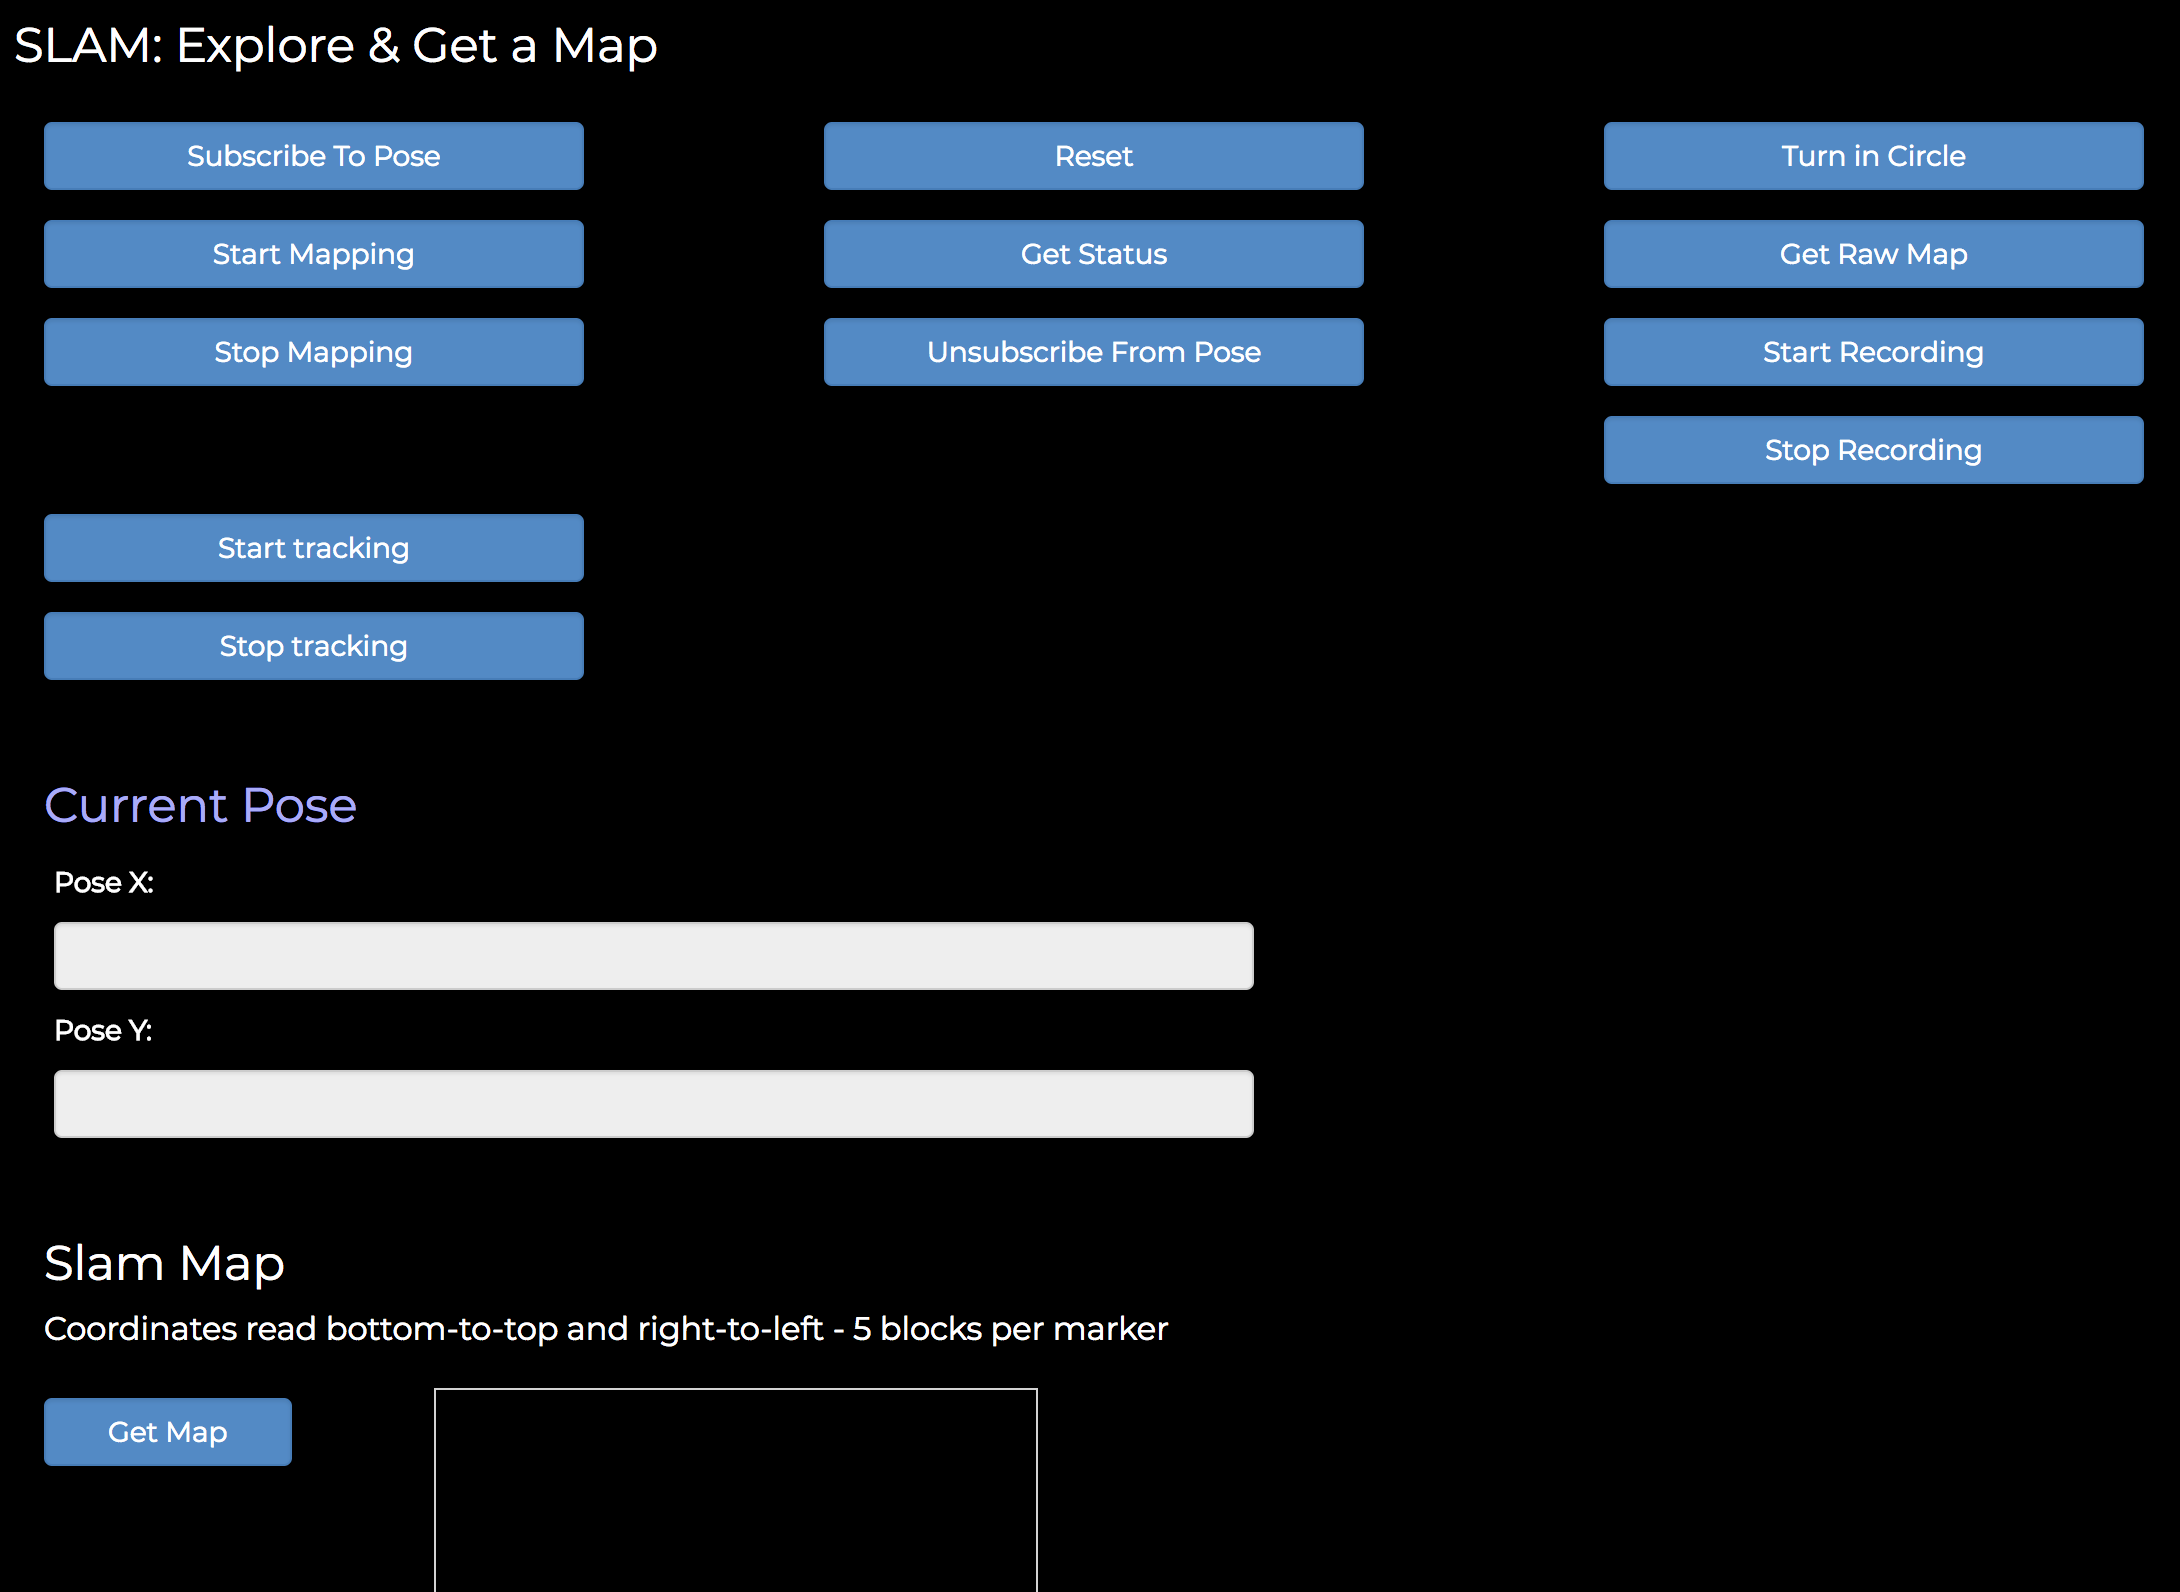
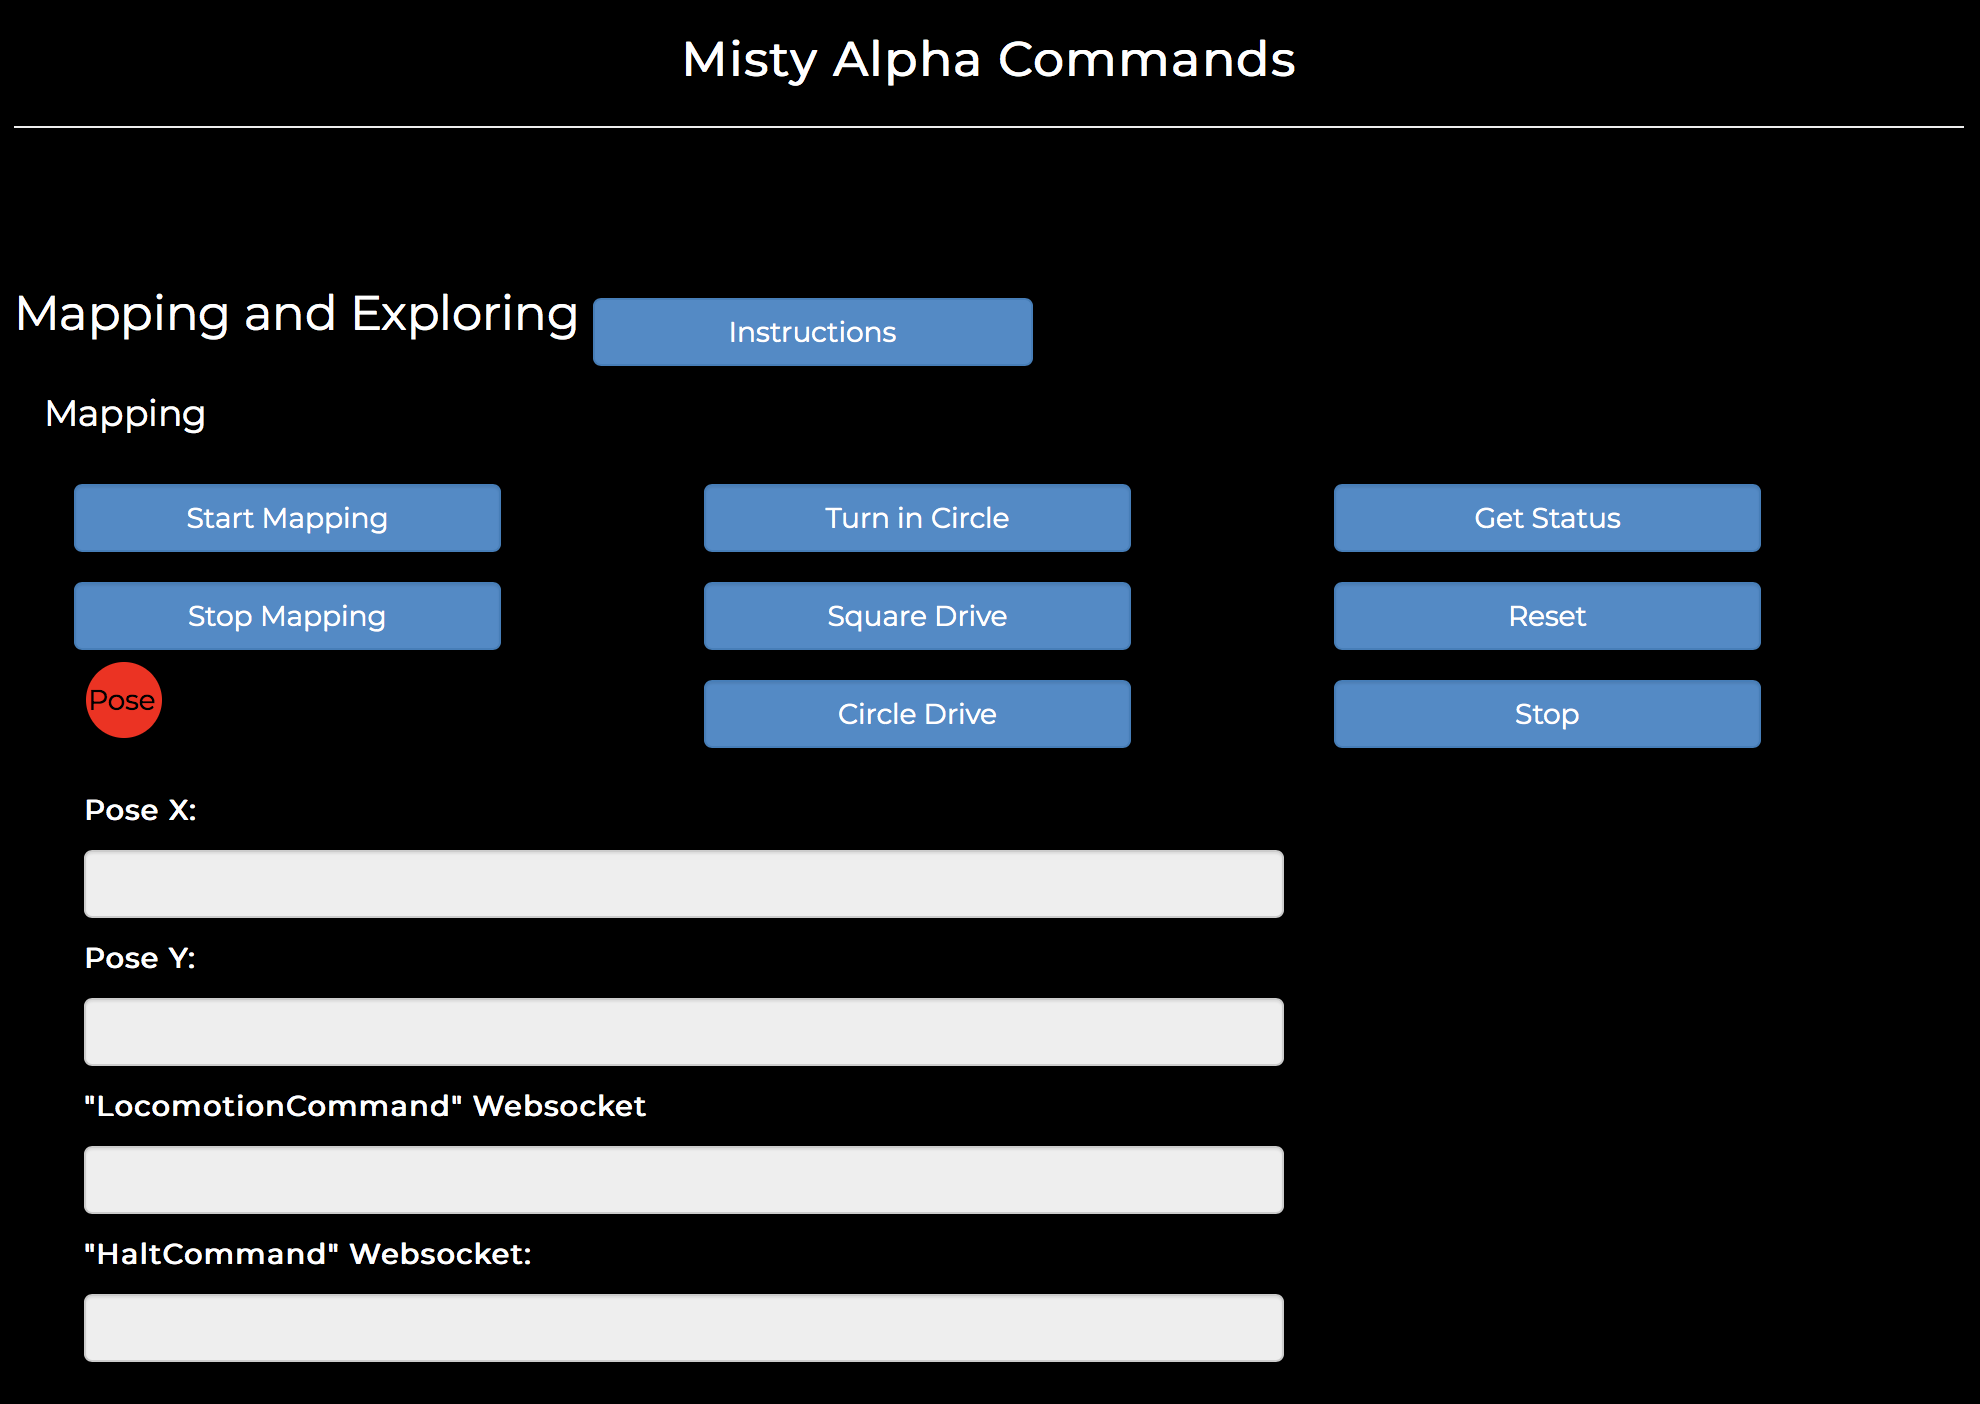
Updated API Explorer content
New descriptions and art

diff --git a/src/content/onboarding/3-ways-to-interact-with-misty/api-explorer.md b/src/content/onboarding/3-ways-to-interact-with-misty/api-explorer.md
@@ -7,69 +7,66 @@ order: 7
 
 # {{title}}
 
-Misty currently has 51 API endpoints. When you use the API Explorer in your browser, you can use these endpoints to try Misty out, without writing any code. We recommend using the API Explorer with the following browsers: Safari, Chrome, Firefox, and Microsoft Edge (latest versions).
+When you use the API Explorer in your browser, you can use Misty's API endpoints to try Misty out, without writing any code. We recommend using the API Explorer with the following browsers: Safari, Chrome, Firefox, and Microsoft Edge (latest versions).
 ![API Explorer](../../../assets/images/api_client.png)
 
-## Programming Misty with the API Explorer
+## Set up the API Explorer
 
 As with the companion app and Blockly, when using the API Explorer, make sure your computer and Misty are on the same Wi-Fi network and using Bluetooth.
 
 1. [Download the API Explorer](https://s3.amazonaws.com/docs.mistyrobotics.io/assets/files/Misty.API.zip). Unzip the download and open the index.html file into your browser. You should see the API Explorer looking like the screenshot above.
-2. Get the IP address of your robot from the Info tab of the companion app. Enter that IP address and hit the “Set up” button.
+2. Get the IP address of your robot from the Info tab of the companion app. Enter that IP address and hit the **Connect** button.
 3. Confirm the browser is connected to your robot via its IP address:
     * Open your browser’s JavaScript console. (How you do this will vary among browsers and platforms.)
-    * Click “Get Device Information” in the API Explorer.
+    * Click **Get Device Information** in the API Explorer.
     * You should see information relevant to your robot (such as the IP address) in the browser console. This confirms you’re connected.
-4. Select the amount of console messages you’ll receive by setting the Verbose Level (1-3). Selecting 3 will give you a console message for each method in all 3 classes, for example. The console messages can be really helpful when getting started.
-5. Experiment with setting Misty’s eyes, LED color, and movement.
+4. Select the amount of console messages you’ll receive by setting the console log level (0-3). Selecting 3 will give you a console message for each method in all 3 classes, for example. The console messages can be really helpful when getting started.
+5. Experiment with Misty’s eyes, LED color, sounds, and movement.
 
-Ready for more?
 
-* Reference the `Misty.API` classes in your HTML:
-    * `MistyAjax.js` - Sends AJAX calls to Misty.
-    * `MistyAPI.js` - Maps one-to-one to Misty's API endpoints and constructs payloads to pass to `MistyAJAX.js`. You can call it directly once you have created a new `MistyRobot` by inputting the robot's IP address, port, and verbose level.
-    * `MistyRobot.js` - Builds the server URL based on the robot you are attempting to interact with and provides a wider and more user-friendly range of commands than `MistyAPI.js`.
-* Use `SampleUI.js` to see examples of all of the event listeners linked to the various buttons rendered in index.html. For example, Select a mood or Change LED.
-* To get a map or a path, follow the SLAM instructions at the bottom of the index.html page. For full details, see the “Mapping” section below.
+## Face Recognition with the API Explorer - BETA
 
-## Face Recognition with the API Explorer
+Misty's ability to recognize faces is under development. To try face training and recognition, follow these steps.
 
-To try face recognition, follow these steps.
-**Note: Facial recognition works best in a well-lit area.**
-1. Make sure the 820 Dev Kit board mounted on Misty’s right side is on.
-2. Make sure that the light on Misty’s HD camera (located above her eyes) is solid blue.
-3. Connect to Misty from the API Explorer.
-4. Enter a name in the Face Training input box. ![Face Training interface](../../../assets/images/face_training.png)
-5. Position the person’s face about a foot or two away from Misty’s camera.
-6. Click Start Face Training and wait a few seconds.
-7. Click Stop Face Training.
-8. Click the Open Websocket button. ![Open Websocket button](../../../assets/images/open_websocket.png)
-9. Click Start Face Recognition.
-10. Position the person’s face in front of the camera.
-11. Watch the browser console for face information to come through.
+1. If you are using Misty 1 Beta version, make sure the 820 Dev Kit board mounted on Misty’s right side is on.
+2. Make sure that the light on Misty’s HD camera (located above her eyes on Misty I Beta) is solid blue.
+3. Connect to Misty from the API Explorer using the setup instructions above.
+4. Scroll down to the **Misty Alpha & Beta Commands** section of the API Explorer and click **I understand...** if you have not already done so. Clicking "I understand..." indicates that you are aware that Misty's Alpha and Beta features are currently not complete and may not function as intended.  ![I understand button](../../../assets/images/i_understand.png)
+5. In the **Misty Beta Commands** section, go to **Computer Vision** and enter a name in the **Face Training** input box. ![Face Training interface](../../../assets/images/computer_vision.png)
+6. Position the person’s face in a well-lit area about a foot or two away from Misty’s camera.
+7. Click **Start Face Training** and wait 10-15 seconds. (There is no need to click **Cancel Face Training**, unless you want to stop the process before it completes.)
+8. Scroll up the API Explorer page to the **Websockets** section and click the **Open Websocket** button. ![Open Websocket button](../../../assets/images/open_websocket.png)
+9. In the **Other Websockets** section, find the **Subscribe** controls. Under **Named Object**, select **FaceRecognition**, then click **Subscribe**. ![Other Websockets](../../../assets/images/other_websockets.png)
+10. Scroll back down to the **Computer Vision** section of the API Explorer and click **Start Face Recognition**. ![Face Training interface](../../../assets/images/computer_vision.png)
+11. Position the person’s face in a well-lit area front of the camera.
+12. Watch the browser console for face information to come through.
+13. When finished, scroll back up to the **Other Websockets** section and find the **Unsubscribe** controls. Enter "FaceRecognition" in the Event Name field and click **Unsubscribe**. ![Unsubscribe](../../../assets/images/unsubscribe.png)
 
-## Mapping & Tracking with the API Explorer
+
+## Mapping & Tracking with the API Explorer - ALPHA
 
 For best control, we recommend that mapping be done at this time via the API Explorer instead of with Blockly or the companion app.
 
 **Note: The software that runs the Occipital sensor for mapping is alpha. Experiment with mapping, but recognize that it is unreliable at this time.**
 
 ### Mapping
-1. Click the Open Websocket button.
-2. Scroll down to the SLAM: Explore & Get a Map section and click the Get Status button.
-![SLAM controls](../../../assets/images/slam_controls.png)
-3. Verify that the status returns "ready". If the status does not return as ready, click the Reset button in the API Explorer and try again.
-4. Verify that the red light on the Occipital sensor (on Misty's forehead) is on. **Note: If after repeated tries, you cannot obtain a status of "ready" or if the Occipital light is not red, restart Misty and try again.**
-5. Click the Subscribe To Pose button. The Current Pose fields may not contain data until Misty starts moving.
-6. Click the Start Mapping button.
-7. Drive Misty SLOWLY around a small space (start with an area no more than 20’ x 20’). Verify that the Current Pose fields contain data that updates as Misty moves.
-8. When done driving, click the Stop Mapping button.
-9. Click the Get Map button and scroll down to see the map your robot generated. The red dot on the map is Misty. The blue-green areas should reflect the driveable terrain for Misty. The white areas are obstacles.
+1. If you are using Misty 1 Beta version, make sure the 820 Dev Kit board mounted on Misty’s right side is on.
+2. Connect to Misty from the API Explorer using the setup instructions above.
+3. Scroll down the API Explorer page to the **Websockets** section and click the **Open Websocket** button. ![Open Websocket button](../../../assets/images/open_websocket.png)
+4. Scroll down to the **Misty Alpha & Beta Commands** section of the API Explorer and click **I understand...** if you have not already done so. Clicking "I understand..." indicates that you are aware that Misty's Alpha and Beta features are currently not complete and may not function as intended.  ![I understand button](../../../assets/images/i_understand.png)
+5. Scroll down to **Misty Alpha Commands** and find the **Mapping and Exploring** section. ![Mapping controls](../../../assets/images/slam_controls.png)
+6. Click **Get Status** and observe the bottom of the page for a status message to pop up. If Misty's status is other than ready, click **Reset**, then click **Get Status** again. If Misty's status does not return as ready after multiple **Reset** and **Get Status** commands, restart Misty, confirm the 820 board is on, and try again.
+7. Click **Start Mapping**. After a few seconds, the **Pose** light should turn green. Having pose means Misty knows her location and orientation on the map, in X,Y coordinates.
+8. Observe the **Pose X** and **Pose Y** fields for data. If you do not see pose updates, it is possible the lighting is too low for Misty. Note also that the Pose fields may not contain data until Misty starts moving.
+9. Select one of the drive options (**Turn in Circle**, etc.) or drive Misty yourself. When mapping, it is ideal if Misty moves SLOWLY around a small space (start with an area no more than 20’ x 20’). Verify that the Pose fields contain data that updates as Misty moves.
+10. When done driving, click **Stop Mapping**.
+11. Scroll down to the **Map** section and click **Get Map**. ![Get map button](../../../assets/images/get_map.png)
 
-**Note: Without going through the steps above, Misty may not know her position in the world (her "pose"). Having pose means Misty knows her location and orientation on the map, in X,Y coordinates.**
 
 ### Mapping Tips
 Having mapping issues? Try these tips:
+
+* If you do not see pose data updating, it is possible the lighting is too low for Misty.
 * Verify that the mapping sensors are working. The Occipital laser near Misty’s right eye should be glowing blue.
 * Drive slowly to give the mapping system the best chance to fill in all details. Slowing Misty down increases mapping effectiveness.
 * Make wider turns (in arcs) to improve mapping results.
@@ -80,6 +77,14 @@ Having mapping issues? Try these tips:
 
 
 ### Tracking
-1. Once you have successfully generated a map, click the Start Tracking button and start driving Misty. Activating tracking should provide data in the Current Pose fields for where Misty is on the map you generated.
-2. Observe the Current Pose fields as Misty moves to ensure she is successfully tracking. If the Current Pose data stops while Misty is moving, try backing Misty up for one second. Misty may find her way again.
-3. Click the Stop Tracking button.
+1. Once you have successfully generated a map, click **Start Tracking** and begin driving Misty. Activating tracking should provide data in the Pose fields for where Misty is on the map you generated.
+2. Observe the Pose fields as Misty moves to ensure she is successfully tracking. If the Pose data stops while Misty is moving, try backing Misty up for one second. Misty may find her way again.
+3. Click **Stop Tracking**.
+
+
+## Ready for more?
+* Reference the `Misty.API` classes in your HTML:
+    * `MistyAjax.js` - Sends AJAX calls to Misty.
+    * `MistyAPI.js` - Maps one-to-one to Misty's API endpoints and constructs payloads to pass to `MistyAJAX.js`. You can call it directly once you have created a new `MistyRobot` by inputting the robot's IP address, port, and verbose level.
+    * `MistyRobot.js` - Builds the server URL based on the robot you are attempting to interact with and provides a wider and more user-friendly range of commands than `MistyAPI.js`.
+* Use `SampleUI.js` to see examples of all of the event listeners linked to the various buttons rendered in index.html. For example, Select a mood or Change LED.
